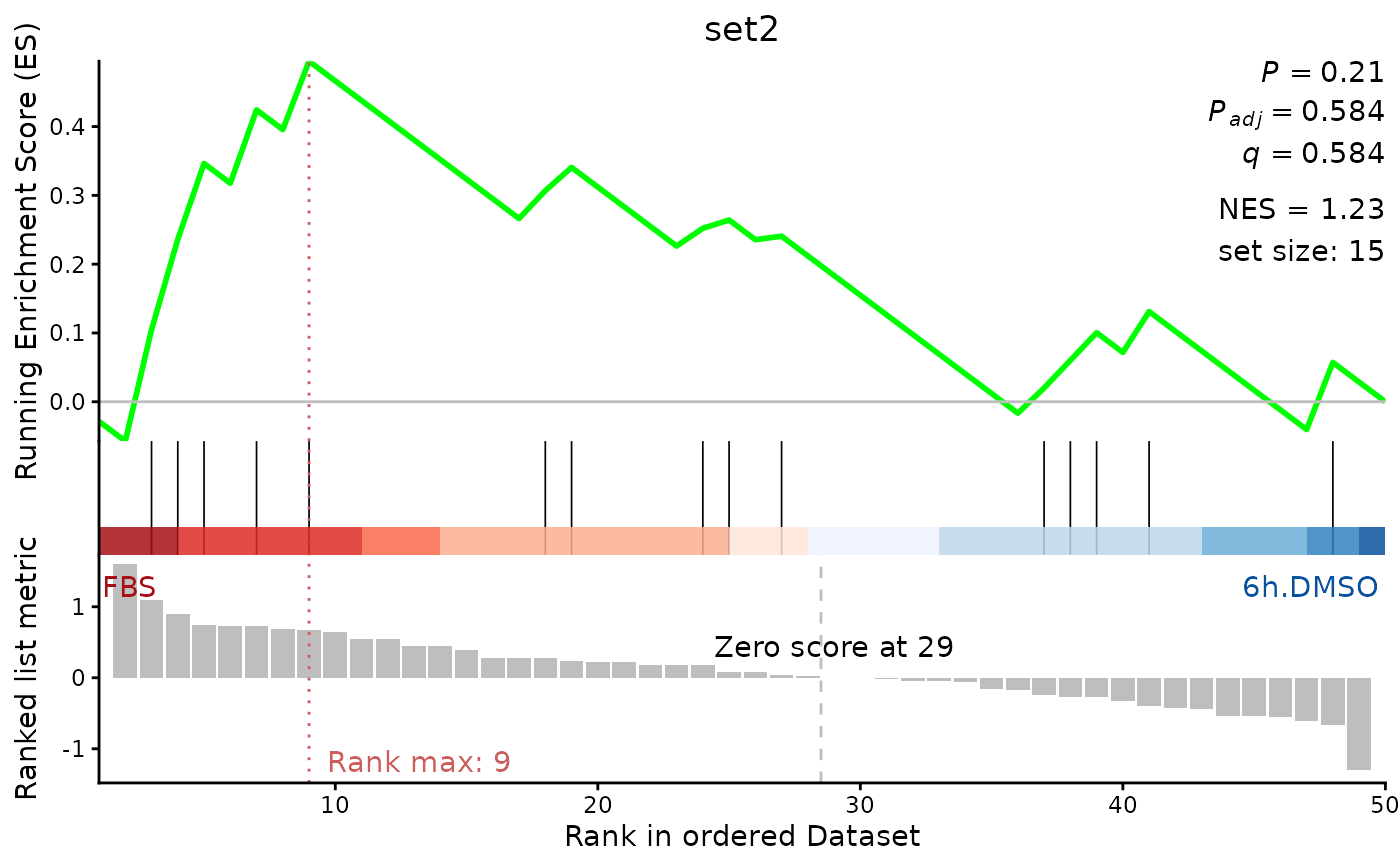
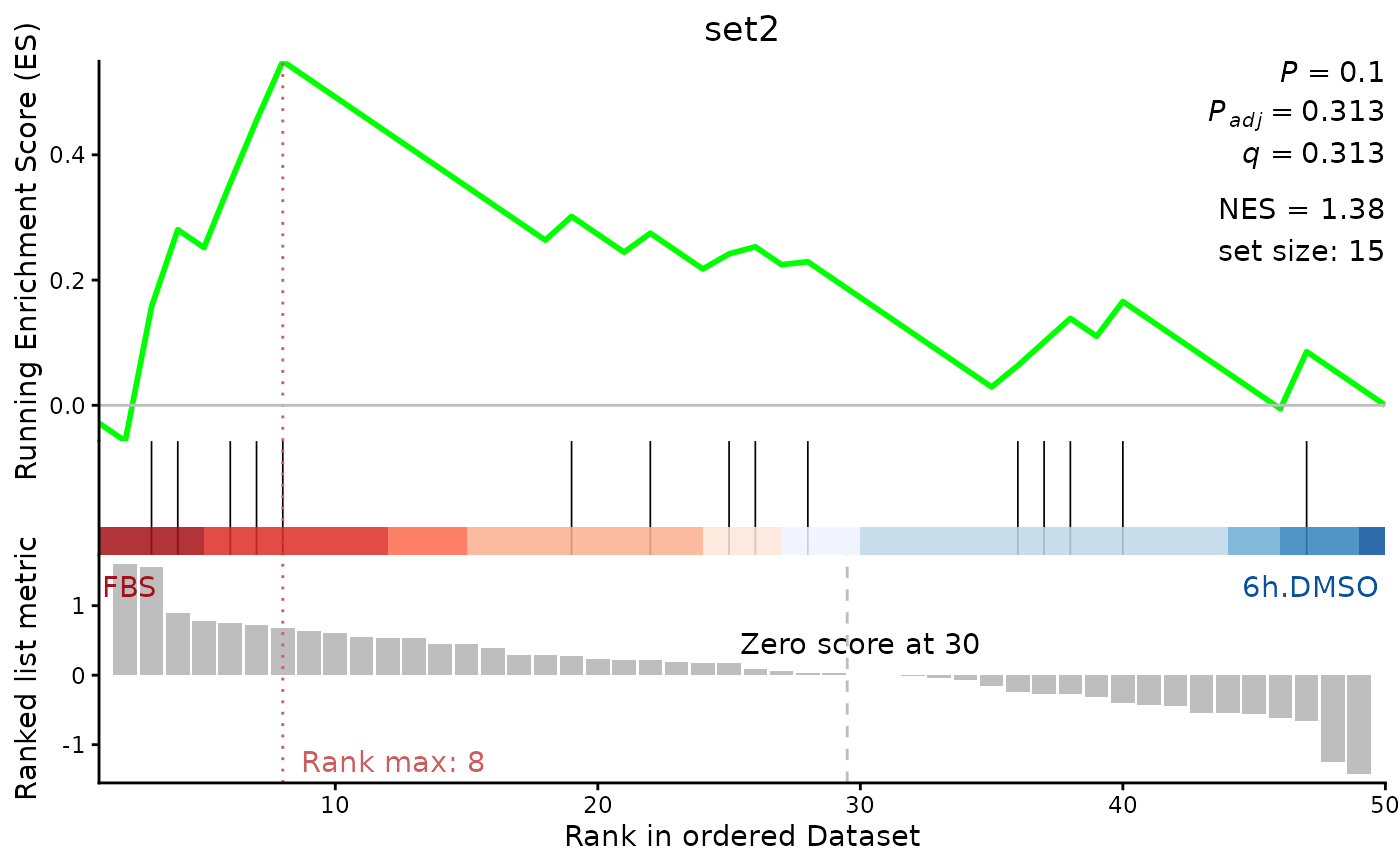
Deploying to gh-pages from @ sebastian-gregoricchio/DEprot@771ac623885a01a6c5f3edc3ec756c987bbe6aed 🚀

diff --git a/reference/plot.GSEA.html b/reference/plot.GSEA.html
@@ -203,7 +203,17 @@
     <div id="ref-examples">
     <h2>Examples</h2>
     <div class="sourceCode"><pre class="sourceCode r"><code><span class="r-in"><span><span class="fu">plot.GSEA</span><span class="op">(</span>gsea.results <span class="op">=</span> <span class="fu">DEprot</span><span class="fu">::</span><span class="va"><a href="test.toolbox.html">test.toolbox</a></span><span class="op">$</span><span class="va">gsea.results</span>, geneset.id <span class="op">=</span> <span class="fl">1</span><span class="op">)</span></span></span>
-<span class="r-err co"><span class="r-pr">#&gt;</span> <span class="error">Error in get(x, envir = ns, inherits = FALSE):</span> object 'gseaScores' not found</span>
+<span class="r-wrn co"><span class="r-pr">#&gt;</span> <span class="warning">Warning: </span>In `margin()`, the argument `t` should have length 1, not length 4.</span>
+<span class="r-wrn co"><span class="r-pr">#&gt;</span> <span style="color: #00BBBB;">ℹ</span> Argument get(s) truncated to length 1.</span>
+<span class="r-wrn co"><span class="r-pr">#&gt;</span> <span class="warning">Warning: </span>In `margin()`, the argument `t` should have length 1, not length 4.</span>
+<span class="r-wrn co"><span class="r-pr">#&gt;</span> <span style="color: #00BBBB;">ℹ</span> Argument get(s) truncated to length 1.</span>
+<span class="r-wrn co"><span class="r-pr">#&gt;</span> <span class="warning">Warning: </span>In `margin()`, the argument `t` should have length 1, not length 4.</span>
+<span class="r-wrn co"><span class="r-pr">#&gt;</span> <span style="color: #00BBBB;">ℹ</span> Argument get(s) truncated to length 1.</span>
+<span class="r-wrn co"><span class="r-pr">#&gt;</span> <span class="warning">Warning: </span>In `margin()`, the argument `t` should have length 1, not length 4.</span>
+<span class="r-wrn co"><span class="r-pr">#&gt;</span> <span style="color: #00BBBB;">ℹ</span> Argument get(s) truncated to length 1.</span>
+<span class="r-wrn co"><span class="r-pr">#&gt;</span> <span class="warning">Warning: </span>Removed 2 rows containing missing values or values outside the scale range</span>
+<span class="r-wrn co"><span class="r-pr">#&gt;</span> (`geom_bar()`).</span>
+<span class="r-plt img"><img src="plot.GSEA-1.png" alt="" width="700" height="433"></span>
 <span class="r-in"><span></span></span>
 <span class="r-in"><span></span></span>
 </code></pre></div>